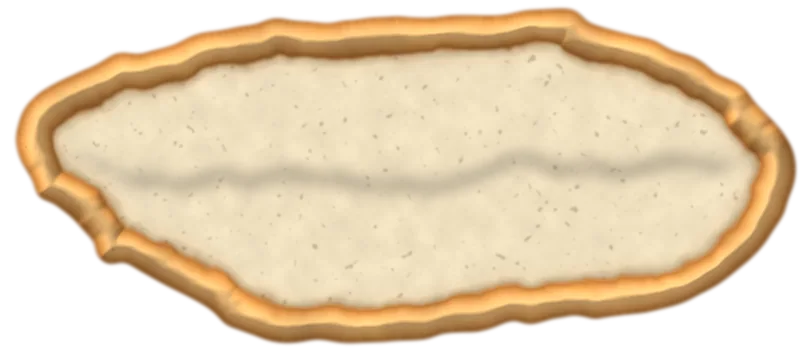
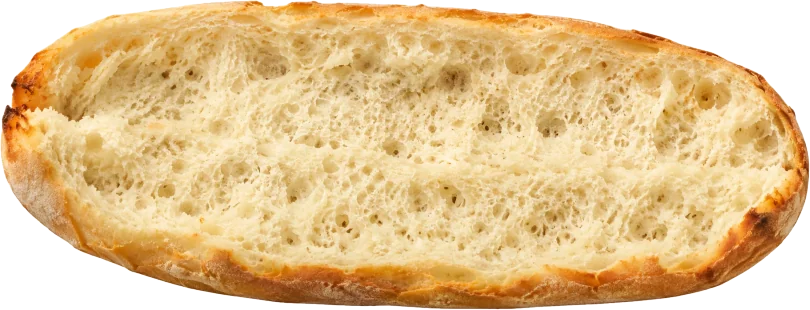
Nouveau pain (photo), viande éparpillée sur les frites cheddar
- Pain ouvert tiré de la nouvelle photo (détouré, 27 cm) ; le gratiné
  « après » ajusté à sa forme ; l'emmental posé sur la mie.
- Frites cheddar : la viande est découpée en morceaux écartés du centre
  (≈ 17 × 9 cm, quelques trous), qui tombent un par un.
- Ombres allégées sur les frites (prop `shadow`), le cheddar reste orange.

Claude-Session: https://claude.ai/code/session_01XqZ93PNWpQXHMrW7uRtFj4

diff --git a/src/photo/PhotoLayer.tsx b/src/photo/PhotoLayer.tsx
@@ -36,6 +36,8 @@ export interface LayerProps {
   visible?: boolean;
   /** Lueur chaude pendant le fondu (sortie du four). */
   glow?: boolean;
+  /** Force de l'ombre portée (défaut 1). Plus faible sur les frites : l'ombre salirait le cheddar. */
+  shadow?: number;
   /** Afficher un cadre « photo à venir » si la photo manque (sinon rien). */
   showPlaceholder?: boolean;
 }
@@ -215,7 +217,7 @@ export function PhotoLayer(p: LayerProps) {
     mat.uniforms.uOpacity.value = opacity;
     mat.uniforms.uProgress.value = progress;
     mat.uniforms.uGlow.value = p.glow ? Math.sin(Math.PI * progress) * 0.18 : 0;
-    shadow.uniforms.uOpacity.value = 0.55 * shadowK;
+    shadow.uniforms.uOpacity.value = 0.55 * shadowK * (p.shadow ?? 1);
     const sm = shadowMesh.current;
     if (sm) {
       // L'ombre reste au sol pendant la chute : plus grande et plus douce quand l'aliment est haut.
@@ -234,7 +236,7 @@ export function PhotoLayer(p: LayerProps) {
       <mesh rotation-x={-Math.PI / 2} material={mat} renderOrder={p.order * 2}>
         <planeGeometry args={size} />
       </mesh>
-      {pieces && !p.reduced && <PiecesDrop map={photo.map} data={pieces} size={size} order={p.order} reduced={p.reduced} clock={pclock.current} />}
+      {pieces && !p.reduced && <PiecesDrop map={photo.map} data={pieces} size={size} order={p.order} reduced={p.reduced} clock={pclock.current} shadow={p.shadow ?? 1} />}
     </group>
   );
 }

diff --git a/src/photo/PiecesDrop.tsx b/src/photo/PiecesDrop.tsx
@@ -72,9 +72,10 @@ interface Props {
   order: number;
   reduced: boolean;
   clock: PiecesClock;
+  shadow?: number;
 }
 
-export function PiecesDrop({ map, data, size, order, clock }: Props) {
+export function PiecesDrop({ map, data, size, order, clock, shadow = 1 }: Props) {
   const n = data.pieces.length;
   const geo = useMemo(() => {
     const g = new THREE.PlaneGeometry(1, 1).rotateX(-Math.PI / 2);
@@ -159,7 +160,7 @@ export function PiecesDrop({ map, data, size, order, clock }: Props) {
       o.scale.set(it.sx * (1 + up * 0.3), 1, it.sz * (1 + up * 0.3));
       o.updateMatrix();
       s.setMatrixAt(i, o.matrix);
-      salpha.setX(i, e < it.t0 ? 0 : 0.5 * clamp01(k * 3) * (1 - up * 0.6));
+      salpha.setX(i, e < it.t0 ? 0 : 0.5 * shadow * clamp01(k * 3) * (1 - up * 0.6));
     }
     m.instanceMatrix.needsUpdate = s.instanceMatrix.needsUpdate = true;
     alpha.needsUpdate = salpha.needsUpdate = true;

diff --git a/src/photo/PhotoAssembly.tsx b/src/photo/PhotoAssembly.tsx
@@ -203,6 +203,7 @@ export function PhotoAssembly({ menu, spec, reduced, baseOrder }: Props) {
         y={onTop.has(p.item.layer) ? 3 : 0.6 + i * 0.35}
         order={baseOrder + 5 + i}
         enter={enter}
+        shadow={tas && i > 0 ? 0.3 : 1}
         {...(drizzle ? { mode: "wipe" as const, duration: 0.75 } : {})}
       />
     );

diff --git a/tools/photos/demo/photos_recues.py b/tools/photos/demo/photos_recues.py
@@ -2,14 +2,16 @@
 
 - gratin-fromage__avant : l'emmental râpé de la photo, posé dans le pain (au cadrage de « après ») ;
 - nappage-cheddar__sur-frites : le cheddar gratiné de la photo, en nappe et coulures sur les paysannes ;
-- kebab, tandoori, poulet, curry : portions « dans le pain » découpées dans les photos de viande.
+- kebab, tandoori, poulet, curry : portions « dans le pain » découpées dans les photos de viande ;
+- pain-sandwich__ouvert : la photo du pain ouvert, vide ;
+- tandoori__tas, viande-hachee__tas : la viande éparpillée sur les frites cheddar.
 
 À lancer après frites.py (il réécrit le nappage) :  python3 photos_recues.py
 """
 import cv2
 import numpy as np
 
-from commun import PX, blur, load, ndi, noise, save
+from commun import BRUTES, PX, blur, load, ndi, noise, save
 from frites import cheddar_mask, crop_alpha, handful, resize
 from plateaux import cutout
 
@@ -21,10 +23,51 @@ def texture(name, box=(330, 330, 1230, 780)):
     return c[y0:y1, x0:x1, :3]
 
 
+BREAD_CM = 27.0  # longueur du pain
+
+
+def pain():
+    """Pain ouvert, vide : détouré du fond blanc (seul le blanc relié au bord est retiré)."""
+    img = cv2.imread(str(BRUTES / "pain-ouvert.webp"))
+    hsv = cv2.cvtColor(img, cv2.COLOR_BGR2HSV)
+    white = ((hsv[..., 2] > 238) & (hsv[..., 1] < 22)).astype(np.uint8)
+    n, lab = cv2.connectedComponents(white)
+    border = set(np.unique(np.concatenate([lab[0], lab[-1], lab[:, 0], lab[:, -1]]))) - {0}
+    fg = (~np.isin(lab, list(border))).astype(np.uint8)
+    fg = cv2.morphologyEx(fg, cv2.MORPH_OPEN, np.ones((5, 5), np.uint8))
+    n, lab, st, _ = cv2.connectedComponentsWithStats(fg)
+    fg = (lab == 1 + np.argmax(st[1:, cv2.CC_STAT_AREA])).astype(np.float32)
+    a = np.clip((blur(fg, 1.5) - 0.2) / 0.6, 0, 1)
+    rgb = img[..., ::-1].astype(np.float32) / 255
+    out = crop_alpha(np.dstack([rgb, a]))
+    k = BREAD_CM * PX / out.shape[1]
+    save("pain-sandwich__ouvert", resize(out, out.shape[1] * k, out.shape[0] * k), synthese=False)
+
+
+def apres_au_pain():
+    """Le gratiné « sorti du four » ramené à la taille et à la forme du pain (sinon il dépasse)."""
+    src = cv2.imread(str(BRUTES / "gratine-apres-detoure.png"), cv2.IMREAD_UNCHANGED)
+    if src is None:  # première fois : on garde la version d'origine comme source
+        cur = (np.clip(load("gratin-fromage__apres"), 0, 1) * 255).astype(np.uint8)
+        cv2.imwrite(str(BRUTES / "gratine-apres-detoure.png"), cv2.cvtColor(cur, cv2.COLOR_RGBA2BGRA))
+        src = cv2.imread(str(BRUTES / "gratine-apres-detoure.png"), cv2.IMREAD_UNCHANGED)
+    g = cv2.cvtColor(src, cv2.COLOR_BGRA2RGBA).astype(np.float32) / 255
+    base = load("pain-sandwich__ouvert")
+    h, w = base.shape[:2]
+    g = crop_alpha(g)
+    g = cv2.resize(g, (int(w * 0.99), int(h * 0.99)), interpolation=cv2.INTER_AREA)
+    out = np.zeros((h, w, 4), np.float32)
+    y0, x0 = (h - g.shape[0]) // 2, (w - g.shape[1]) // 2
+    out[y0 : y0 + g.shape[0], x0 : x0 + g.shape[1]] = g
+    out[..., 3] = np.minimum(out[..., 3], blur(base[..., 3], 1.0))
+    save("gratin-fromage__apres", out, crop=False, synthese=False)
+
+
 def emmental_avant():
-    apres = load("gratin-fromage__apres")
-    h, w = apres.shape[:2]
-    alpha = blur(np.clip((blur(apres[..., 3], 6) - 0.5) * 4 + 0.5, 0, 1), 1.2)
+    """Emmental posé sur la mie, au cadrage du pain ; le gratiné « après » a la même taille."""
+    base = load("pain-sandwich__ouvert")
+    h, w = base.shape[:2]
+    alpha = blur(np.clip((blur(base[..., 3], 6) - 0.5) * 4 + 0.5, 0, 1), 1.2)
     dist = ndi.distance_transform_edt(alpha > 0.5)
     tex = cv2.resize(texture("emmental"), (w, h), interpolation=cv2.INTER_AREA)
     lum = tex.mean(-1)
@@ -69,8 +112,47 @@ def portion(src, name, recolor=None, seed=1):
     save(name, resize(p, p.shape[1] * PX / ppc, p.shape[0] * PX / ppc), synthese=bool(recolor))
 
 
+def eparpille(src, name, seed):
+    """Viande éparpillée sur les frites cheddar : une poignée découpée en morceaux, écartés du centre."""
+    from skimage.segmentation import felzenszwalb
+
+    pay = crop_alpha(cutout("paysannes"))
+    ppc = pay.shape[1] / 18.0  # même plateau, même cadrage : px source par cm
+    hand = handful(crop_alpha(cutout(src)), 11.5, 6.2, ppc, seed)
+    h, w = hand.shape[:2]
+    mask = hand[..., 3] > 0.4
+    rgb = hand[..., :3].copy()
+    rgb[~mask] = 0
+    labels = felzenszwalb(rgb, scale=160, sigma=0.7, min_size=max(80, int(mask.sum() / 90))) + 1
+    labels[~mask] = 0
+    rng = np.random.default_rng(seed)
+    SPREAD = (1.5, 1.45)  # le tas s'étale : 11,5 × 6 cm → ≈ 17 × 9 cm
+    H, W = int(h * SPREAD[1] + 40), int(w * SPREAD[0] + 40)
+    out = np.zeros((H, W, 4), np.float32)
+    from compose import over
+
+    ids = [i for i in np.unique(labels) if i]
+    for i in rng.permutation(ids):
+        m = labels == i
+        if rng.random() < 0.12:  # quelques trous : le cheddar se voit entre les morceaux
+            continue
+        ys, xs = np.nonzero(m)
+        y0, y1, x0, x1 = ys.min(), ys.max() + 1, xs.min(), xs.max() + 1
+        piece = hand[y0:y1, x0:x1].copy()
+        piece[..., 3] *= m[y0:y1, x0:x1]
+        cy, cx = ys.mean(), xs.mean()
+        ny = H / 2 + (cy - h / 2) * SPREAD[1] + rng.normal(0, 4)
+        nx = W / 2 + (cx - w / 2) * SPREAD[0] + rng.normal(0, 4)
+        over(out, piece, int(nx - (cx - x0)), int(ny - (cy - y0)), shadow=0.16, sh_off=(3, 4), sh_blur=3)
+    save(name, resize(out, W * PX / ppc, H * PX / ppc), synthese=False)
+
+
 if __name__ == "__main__":
+    pain()
+    apres_au_pain()
     emmental_avant()
+    eparpille("tandoori", "tandoori__tas", 3)
+    eparpille("viande", "viande-hachee__tas", 5)
     cheddar_nappe()
     portion("viande", "kebab", seed=2)
     portion("tandoori", "tandoori", seed=3)

diff --git a/docs/etape-2-configurateur.md b/docs/etape-2-configurateur.md
@@ -13,6 +13,11 @@ Pour montrer le rendu au client avant la séance photo, le configurateur tourne 
 |---|---|
 | ![](captures/4-demo-gratine.jpg) | ![](captures/5-demo-frites-garnies.jpg) |
 
+### Mise à jour : nouveau pain, viande éparpillée sur les frites cheddar
+
+- **Pain :** le pain ouvert vient de votre nouvelle photo (détourée, 27 cm). La photo du gratiné « sorti du four » est ajustée à sa forme, pour ne pas dépasser, et l'emmental est posé sur la mie.
+- **Frites cheddar :** la viande n'arrive plus en tas au centre. Elle est **éparpillée sur toute la surface** du cheddar (environ 17 × 9 cm), en une cinquantaine de morceaux qui tombent un par un, avec quelques trous où l'on voit le cheddar. Les ombres sont allégées pour que le cheddar reste orange.
+
 ### Mise à jour : vos photos d'emmental, de cheddar et de viandes
 
 Ces images viennent de vos photos, détourées de leur plateau (`tools/photos/demo/photos_recues.py`) :
